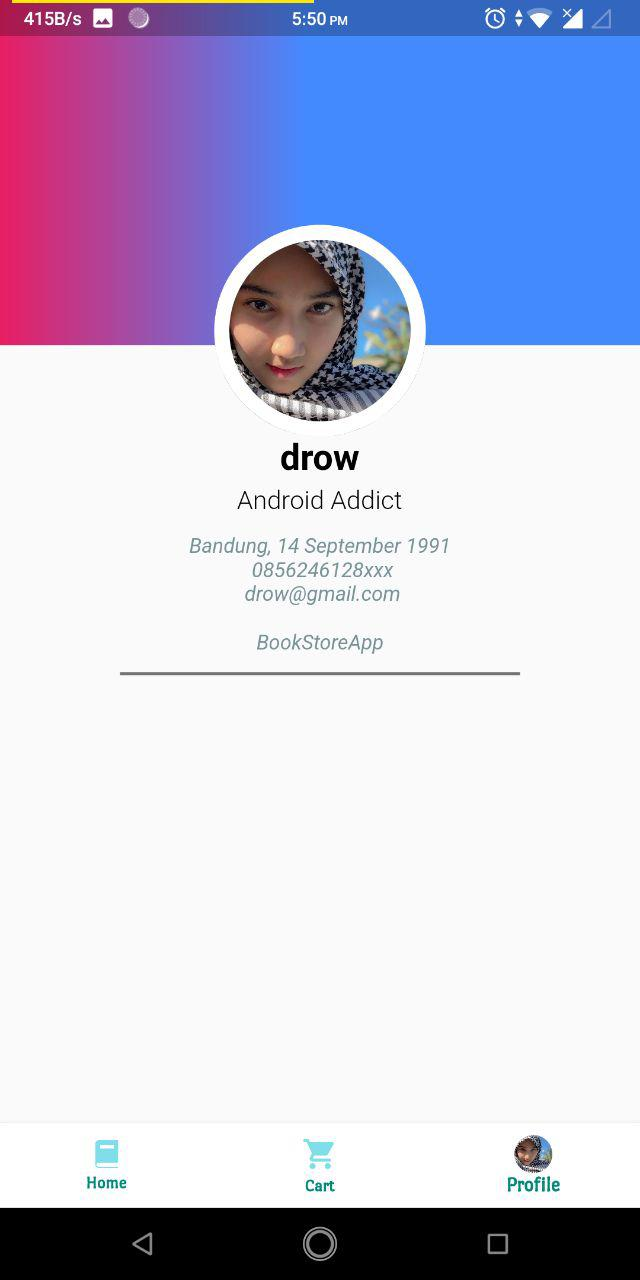
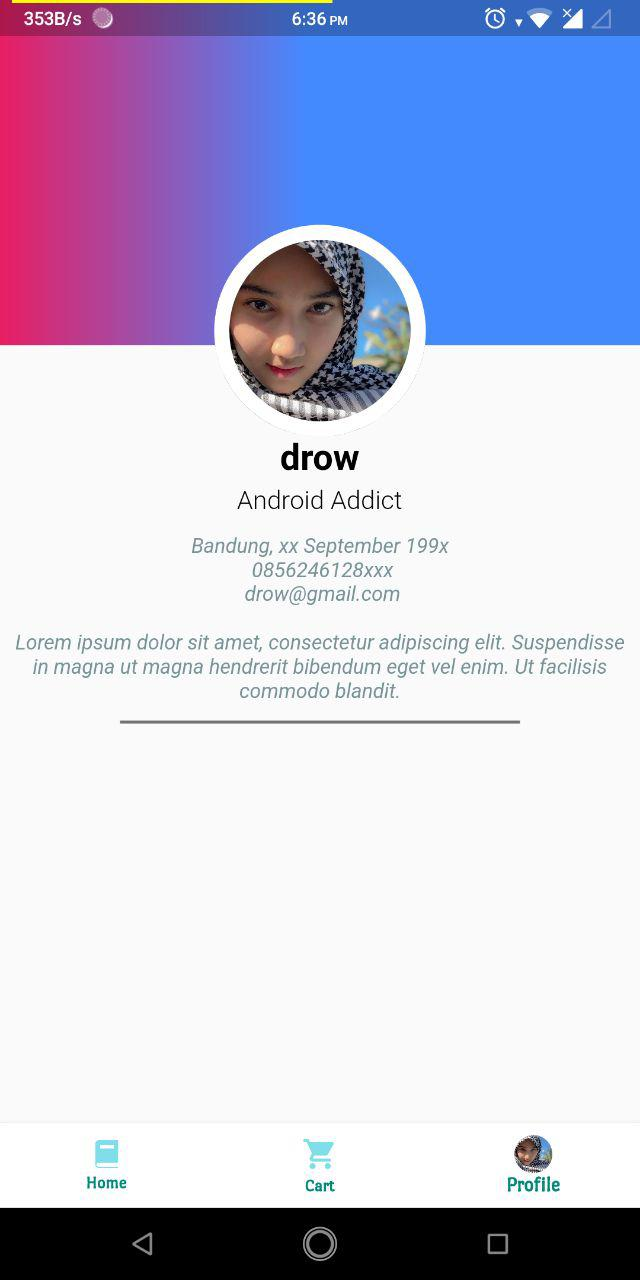
edit profile

diff --git a/lib/profile_pages.dart b/lib/profile_pages.dart
@@ -138,7 +138,7 @@ class _ProfilePagesState extends State<ProfilePages> {
       color: Theme.of(context).scaffoldBackgroundColor,
       padding: EdgeInsets.all(8.0),
       child: Text(
-        'Bandung, 14 September 1991\n 0856246128xxx\n $email',
+        'Bandung, xx September 199x\n 0856246128xxx\n $email',
         textAlign: TextAlign.center,
         style: bioTextStyle,
       ),
@@ -159,7 +159,7 @@ class _ProfilePagesState extends State<ProfilePages> {
       color: Theme.of(context).scaffoldBackgroundColor,
       padding: EdgeInsets.all(8.0),
       child: Text(
-        'BookStoreApp ',
+        'Lorem ipsum dolor sit amet, consectetur adipiscing elit. Suspendisse in magna ut magna hendrerit bibendum eget vel enim. Ut facilisis commodo blandit.',
         textAlign: TextAlign.center,
         style: bioTextStyle,
       ),
